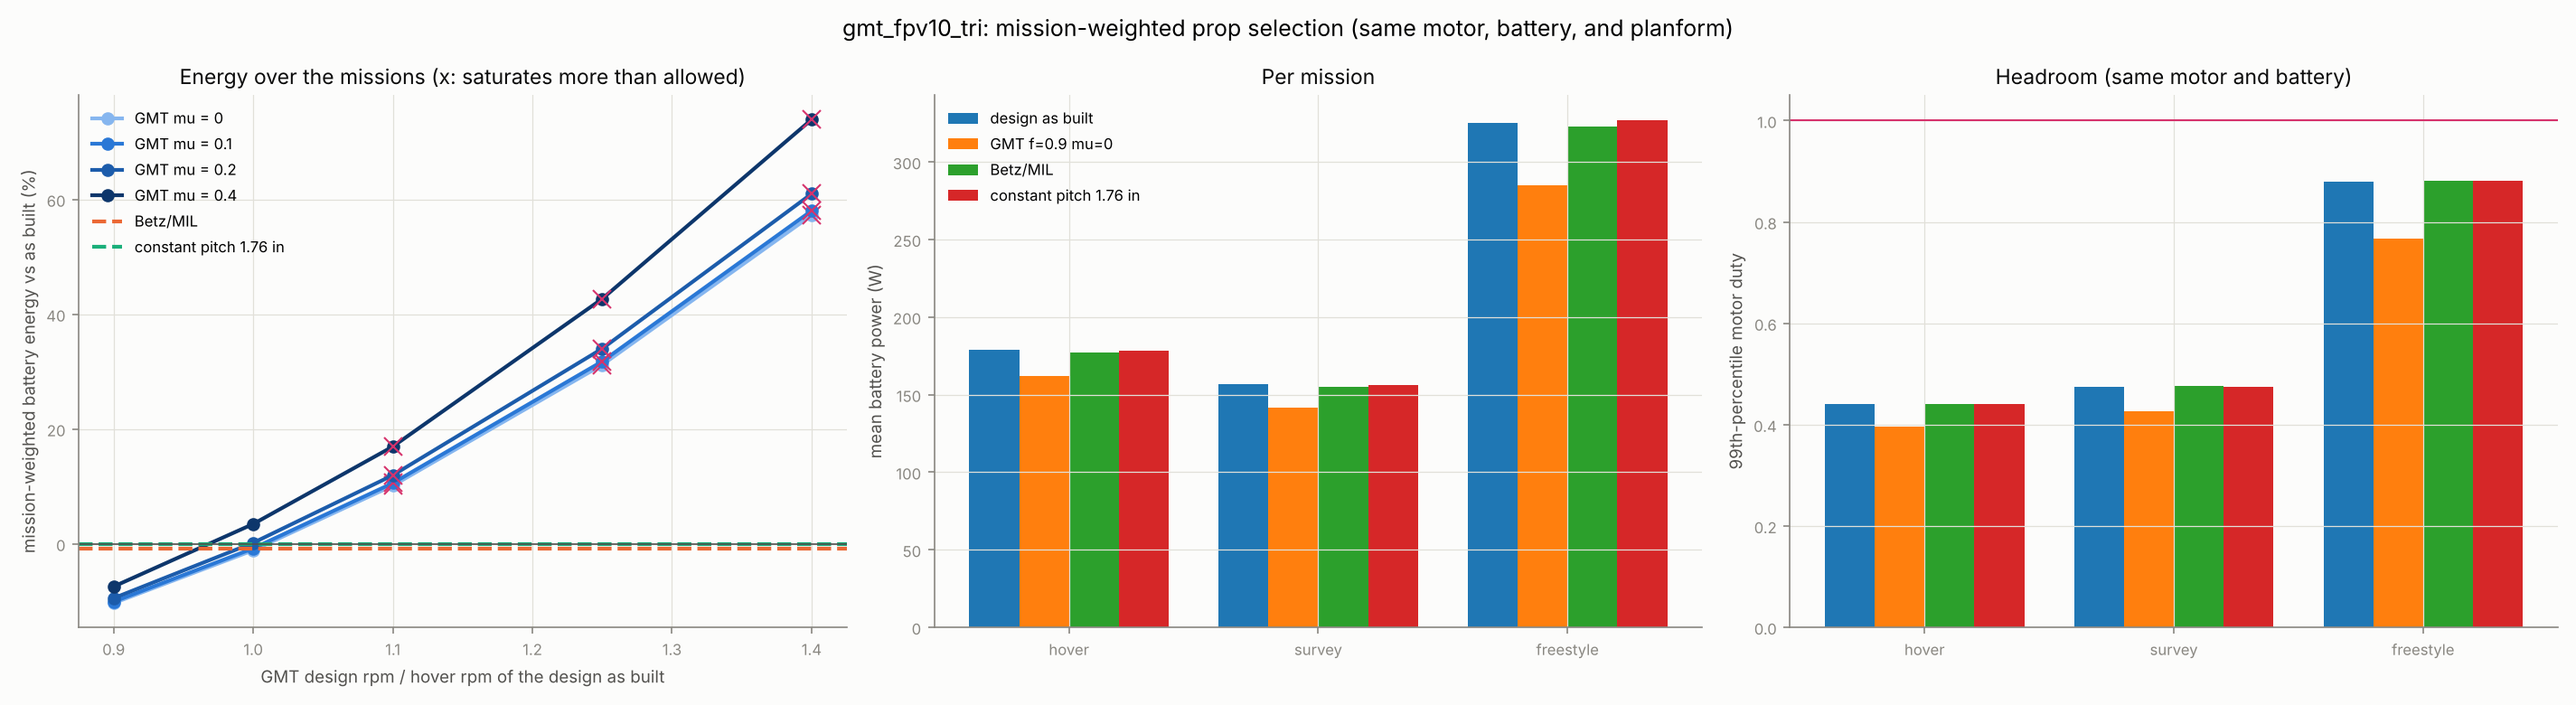
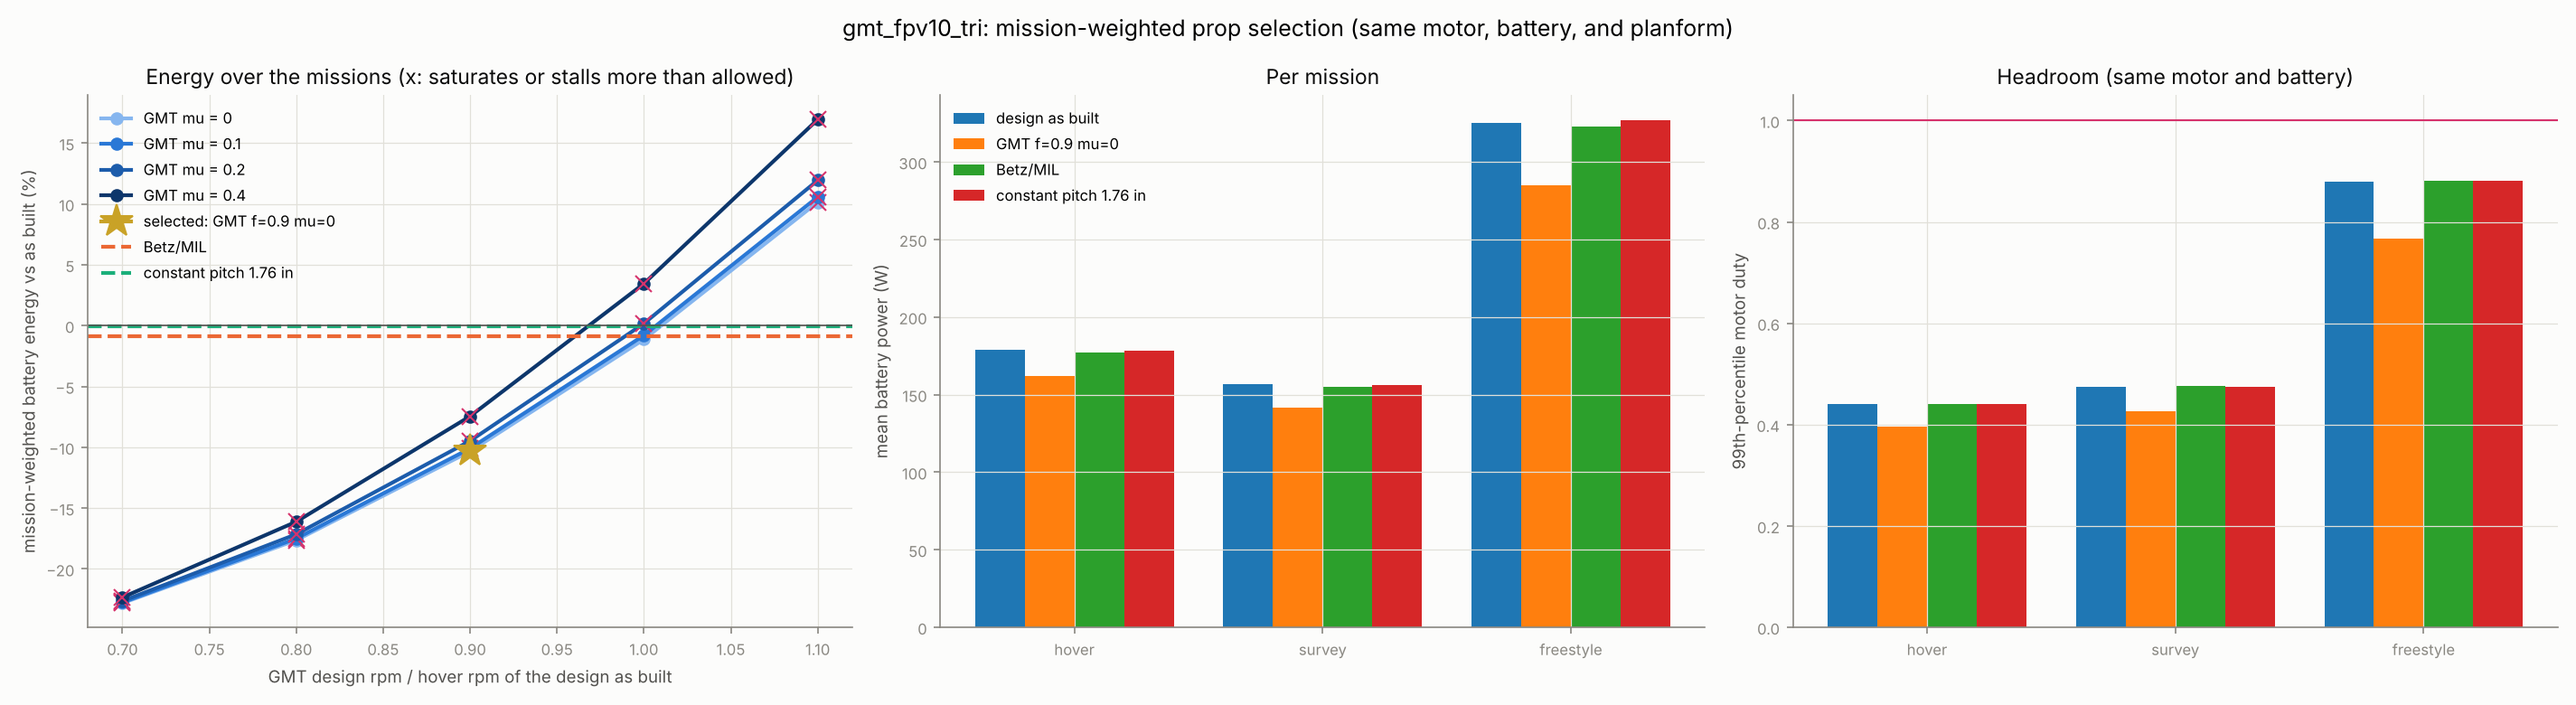
SITL: stall over the thrust-carrying disk, mission-weighted selection run on the 10in GMT tri, docs/sitl.md and figures
Claude-Session: https://claude.ai/code/session_01XrciZHJQe4fLbnAGzz3xPU

diff --git a/src/prandtl_prop/sitl/tables.py b/src/prandtl_prop/sitl/tables.py
@@ -16,8 +16,11 @@ So a table over (lambda_c, mu) at one rpm is exact at every rpm. A Reynolds-depe
 polar adds rpm as a third axis. Interpolation is multilinear; inflow beyond the grid is clamped to
 its edge, which for Omega -> 0 still sends every load to zero with (Omega R)^2.
 
-The table also carries the peak section Cl over the loaded disk, which depends on the same two
-ratios; with a polar that has no stall drag rise it is the retreating-blade stall check.
+The table also carries the peak section Cl over the thrust-carrying disk (azimuth points with at
+least 25% of the tip dynamic pressure), which depends on the same two ratios; with a polar that has
+no stall drag rise it is the stall check. Root sections inside that boundary carry little thrust and
+are excluded: GMT twists load the root hard, and their root stalls first in edgewise flow (uniform
+inflow drops with translational lift and raises every section's angle of attack).
 
 Validity. Momentum theory fails in the vortex-ring state (descending into the rotor's own wake).
 Cells inside the usual VRS boundary are flagged, not corrected: -2 < V_axial / v_h < -0.3 with
@@ -57,7 +60,7 @@ class RotorTable:
     ch: np.ndarray
     cm: np.ndarray
     vrs: np.ndarray  # bool, same shape
-    peak_cl: np.ndarray | None = None  # peak section Cl over the loaded disk (retreating-blade stall check)
+    peak_cl: np.ndarray | None = None  # peak section Cl where q >= 25% of the tip's (stall check)
 
     @property
     def disk_area_m2(self) -> float:
@@ -122,7 +125,7 @@ class RotorTable:
                 "h_force_N": "rho pi R^2 (Omega R)^2 C_H, in the disk plane opposing the edgewise motion",
                 "roll_moment_Nm": "rho pi R^2 (Omega R)^2 R C_M, advancing side up; body vector = -s M e_f (see docs/sitl.md)",
                 "vrs": "1 inside the vortex-ring-state boundary (momentum theory invalid there)",
-                "peak_cl": "largest section Cl over the azimuth points carrying >= 5% of the tip dynamic pressure",
+                "peak_cl": "largest section Cl over the azimuth points carrying >= 25% of the tip dynamic pressure",
             },
             "ct": self.ct.tolist(),
             "cq": self.cq.tolist(),
@@ -216,7 +219,7 @@ def build_table(
                 cq[k, i, j] = out["torque_Nm"] / (scale * point.radius_m)
                 ch[k, i, j] = out["h_force_N"] / scale
                 cm[k, i, j] = out["hub_roll_moment_Nm"] / (scale * point.radius_m)
-                peak[k, i, j] = out["peak_cl"] if math.isfinite(out["peak_cl"]) else 0.0
+                peak[k, i, j] = out["peak_cl_outer"] if math.isfinite(out["peak_cl_outer"]) else 0.0
     vrs = vrs_flag(ct, lam[None, :, None], mu[None, None, :])
     return RotorTable(name, op.radius_m, op.rho_kg_m3, op.blade_count, np.array(rpms, float), lam, mu, ct, cq, ch, cm, vrs, peak)
 

diff --git a/src/prandtl_prop/multirotor.py b/src/prandtl_prop/multirotor.py
@@ -185,6 +185,7 @@ def rotor_forward(
     B, rho = op.blade_count, op.rho_kg_m3
     thrust_ps, torque_ps, h_ps, roll_ps, vi_out = [], [], [], [], []
     peak_cl = -math.inf  # over azimuth points carrying >= 5% of the tip dynamic pressure (stall check)
+    peak_cl_outer = -math.inf  # over points carrying >= 25% of it: the thrust-carrying disk (root stall excluded)
     q_tip = (omega * op.radius_m) ** 2
     for i, r in enumerate(stations.r_m):
         r, c = float(r), float(stations.chord_m[i])
@@ -220,12 +221,14 @@ def rotor_forward(
             momentum = 4.0 * math.pi * rho * r * factor * vi * math.sqrt(v_edge_m_s**2 + up**2)
             loaded = live & (w2 >= 0.05 * q_tip)
             cl_peak = float(cl[loaded].max()) if loaded.any() else -math.inf
+            outer = live & (w2 >= 0.25 * q_tip)
+            cl_outer = float(cl[outer].max()) if outer.any() else -math.inf
             return (
                 float(dT.mean()) - momentum,
                 float(dT.mean()),
                 float(dF.mean()) * r,
                 float((dF * sin_psi).mean()),
-                cl_peak,
+                (cl_peak, cl_outer),
                 float((dT * sin_psi).mean()) * r,
             )
 
@@ -236,8 +239,9 @@ def rotor_forward(
             while loads(upper)[0] > 0.0:
                 upper *= 2.0
             vi = brentq(lambda v: loads(v)[0], 0.0, upper, xtol=1e-12, rtol=1e-12, maxiter=200)
-        _, t, q, h, cl_peak, roll = loads(vi)
+        _, t, q, h, (cl_peak, cl_outer), roll = loads(vi)
         peak_cl = max(peak_cl, cl_peak)
+        peak_cl_outer = max(peak_cl_outer, cl_outer)
         roll_ps.append(roll)
         thrust_ps.append(t)
         torque_ps.append(q)
@@ -255,6 +259,7 @@ def rotor_forward(
         "mean_induced_m_s": float(np.average(vi_out, weights=stations.r_m * dr)),
         "advance_ratio_mu": v_edge_m_s / (omega * op.radius_m),
         "peak_cl": peak_cl,
+        "peak_cl_outer": peak_cl_outer,
     }
 
 

diff --git a/src/prandtl_prop/sitl/optimize.py b/src/prandtl_prop/sitl/optimize.py
@@ -106,6 +106,8 @@ def evaluate(
             "duty_p99",
             "peak_motor_current_A",
             "vrs_fraction",
+            "stall_fraction",
+            "peak_section_cl",
         ):
             row[f"{name}_{key}"] = r[key]
     row["worst_limit_fraction"] = max(r["saturated_fraction"] + r["over_current_fraction"] for r in results)
@@ -159,7 +161,16 @@ def plot(rows: list[dict[str, Any]], best: dict[str, Any] | None, missions: list
             )
             for r in pts:
                 if not r["feasible"]:
-                    ax.plot(r["design_rpm_fraction"], r["delta_energy_vs_built_pct"], marker="x", color="#d6336c", markersize=10)
+                    ax.plot(r["design_rpm_fraction"], r["delta_energy_vs_built_pct"], marker="x", color="#d6336c", markersize=9)
+    if best is not None and best["family"] == "gmt":
+        ax.plot(
+            best["design_rpm_fraction"],
+            best["delta_energy_vs_built_pct"],
+            marker="*",
+            color="#c9a227",
+            markersize=18,
+            label=f"selected: {best['label']}",
+        )
     for r in rows:
         if r["family"] in ("mil", "helix") and "weighted_energy_Wh" in r:
             ax.axhline(
@@ -168,7 +179,7 @@ def plot(rows: list[dict[str, Any]], best: dict[str, Any] | None, missions: list
     ax.axhline(0.0, color="#52514e", linewidth=0.8)
     ax.set_xlabel("GMT design rpm / hover rpm of the design as built")
     ax.set_ylabel("mission-weighted battery energy vs as built (%)")
-    ax.set_title("Energy over the missions (x: saturates more than allowed)")
+    ax.set_title("Energy over the missions (x: saturates or stalls more than allowed)")
     ax.legend(fontsize=8)
     ax = axes[1]
     show = [r for r in (built, best) if r is not None] + [r for r in rows if r["family"] in ("mil", "helix") and "weighted_energy_Wh" in r]

diff --git a/src/prandtl_prop/sitl/workflow.py b/src/prandtl_prop/sitl/workflow.py
@@ -282,7 +282,7 @@ def mission_study(
         tables[candidate["label"]] = (evaluated["table"], candidate["stations"])
         r = evaluated["row"]
         echo(
-            f"  [{i + 1}/{len(family)}] {candidate['label']}: {r['weighted_energy_Wh']:.3f} Wh, worst saturated/over-current {100 * r['worst_limit_fraction']:.2f} %"
+            f"  [{i + 1}/{len(family)}] {candidate['label']}: {r['weighted_energy_Wh']:.3f} Wh, worst saturated/over-current {100 * r['worst_limit_fraction']:.2f} %, stall {100 * r['worst_stall_fraction']:.2f} %"
         )
     best = opt.select(rows, design.sitl.allowed_saturation_fraction)
     _write_rows(output_dir / "candidates.csv", rows)

diff --git a/docs/sitl.md b/docs/sitl.md
@@ -159,6 +159,12 @@ A sample counts as **saturated** when any of these holds:
 - the battery cannot supply the power;
 - a non-braking ESC would need negative current.
 
+Separately, a sample counts as **stalled** when any rotor's peak section Cl exceeds
+`multirotor.forward_cl_limit` (1.15, under the polar's 1.2 clamp). The peak is taken over the
+thrust-carrying disk: azimuth points with at least 25% of the tip dynamic pressure. Root sections
+inside that boundary are excluded. GMT twists load the root hard (Cl ≈ 0.97 at r/R 0.29 on the 10″),
+so the root clamps at walking pace in edgewise flow, but it carries little thrust.
+
 The test round trip recovers logged rpm to 1e-4.
 
 **Frozen trajectory.** This is the one big assumption: the candidate flies the same path. It holds
@@ -192,6 +198,8 @@ Replay of the 10″ GMT tri as built:
 
 ![Reference missions](images/sitl_missions.png)
 
+![Rotor tables](images/sitl_rotor_tables.png)
+
 ## 3. Mission-weighted selection (`sitl-optimize`)
 
 **The candidate family.**
@@ -209,7 +217,55 @@ and battery**: the hardware you buy, with Kv as matched for the design as built.
 **What `best/` holds:** `stations.csv` (the twist, ready for a design file), the tables, the C++
 header and `px4_params.txt`. Load those into the sim, fly, and log; the next iteration starts there.
 
-RESULTS_PLACEHOLDER
+### Result on the 10″ GMT tri (reference missions, equal weights, motor Kv 719 fixed)
+
+![Candidates](images/sitl_candidates.png)
+
+There are 27 candidates:
+- GMT at f = 0.6–1.1 × 4 bell weights (f = 0.6 cannot reach hover thrust under `gmt.cl_limit`);
+- the design as built, Betz/MIL and constant pitch.
+
+| Candidate | Weighted energy | vs as built | hover / survey / freestyle power | freestyle p99 duty | worst stall time | feasible |
+| --- | --- | --- | --- | --- | --- | --- |
+| design as built (GMT, 7500 rpm, μ = 0.187) | 20.68 Wh | — | 178.6 / 156.6 / 325.2 W | 0.88 | 6.7 % | (reference) |
+| **GMT f = 0.9, μ = 0 (selected)** | **18.54 Wh** | **−10.3 %** | 162.1 / 141.7 / 284.8 W | 0.77 | 6.4 % | yes |
+| GMT f = 0.8, μ = 0 | 17.03 Wh | −17.6 % | 150.2 / 131.3 / 256.2 W | | 53 % | no: stalls |
+| GMT f = 0.7, μ = 0 | 15.96 Wh | −22.8 % | 141.8 / 123.6 / 236.7 W | | 85 % | no: stalls |
+| GMT f = 1.0, μ = 0 | 20.44 Wh | −1.1 % | 176.8 / 154.7 / 321.5 W | | 4.0 % | yes |
+| GMT f = 1.1, μ = 0 | 22.77 Wh | +10.1 % | 194.7 / 170.1 / 368.3 W | | 2.2 % | no: saturates 0.8 % |
+| Betz/MIL | 20.50 Wh | −0.9 % | 177.2 / 155.0 / 322.9 W | | 3.8 % | yes |
+| constant pitch | 20.67 Wh | −0.0 % | 178.4 / 156.2 / 326.5 W | | 2.9 % | yes |
+
+What the missions say:
+
+1. **The current prop was picked for the wrong objective for endurance.** `design-gmt` chose hover
+   *torque* (motor size). Over the missions, the same planform with a GMT twist designed for about
+   10% lower rpm (steeper pitch) uses 10% less battery on the same motor. It also has *more* duty
+   headroom: freestyle p99 duty drops from 0.88 to 0.77, because lower rpm means less back-EMF per
+   newton.
+2. **Stall in cruise is the binding constraint, not saturation.**
+   - Slower designs run every section at higher Cl.
+   - In edgewise flight the induced velocity falls (translational lift), which raises every
+     section's angle of attack.
+   - At f ≤ 0.8 the thrust-carrying disk sits at the Cl clamp for over half of some missions. The
+     polar has no stall drag rise, so their energy is optimistic, and they are rejected.
+   - The single-point check in `design-gmt` (at 25 m/s only) never saw this. At 25 m/s the steep
+     body pitch puts flow *through* the disk and relieves the blade. The stall bites at 5–15 m/s.
+3. **The bell weight costs energy and stall margin over a mission.**
+   - μ > 0 moves load inboard and raises the root Cl.
+   - At f = 0.9, μ = 0.1 already stalls 21% of a mission.
+   - The structural reason for μ (root stress) has to be re-checked for the selected twist: run
+     `prandtl design-gmt` / FEA on `best/stations.csv` before molding.
+4. **Yaw authority is unchanged.** `CA_ROTOR_KM` is 0.01269 against 0.01263 m. CT rises from 16.2 to
+   19.7 N and `MPC_THR_HOVER` falls from 0.219 to 0.180.
+
+**Next step:**
+1. Load `outputs/sitl/gmt_fpv10_tri/best/` (tables and `px4_params.txt`) into the simulator.
+2. Fly the real missions.
+3. Run `prandtl sitl-optimize ... --log <those logs>`.
+4. If the selection holds on real logs, close the structure and the mold for it with the existing
+   stages.
+
 
 ## Assumptions and limits
 
